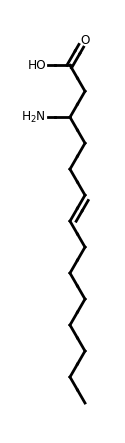
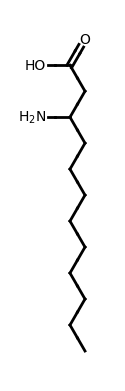
Edited bond thickness

Changed region(s): [[0.192, 0.0614, 0.72, 0.9207], [0.144, 0.2455, 0.36, 0.3376]]

diff --git a/raichu/visualize_cluster.py b/raichu/visualize_cluster.py
@@ -490,7 +490,7 @@ def draw_structures(drawer_objects, ax):
         ax.set_aspect('equal', adjustable='box')
         ax.axis('off')
 
-        drawer_object.line_width = 2
+        drawer_object.line_width = 1.5
 
         plt.subplots_adjust(left=0, bottom=0, right=1, top=1, wspace=0, hspace=0)
 
